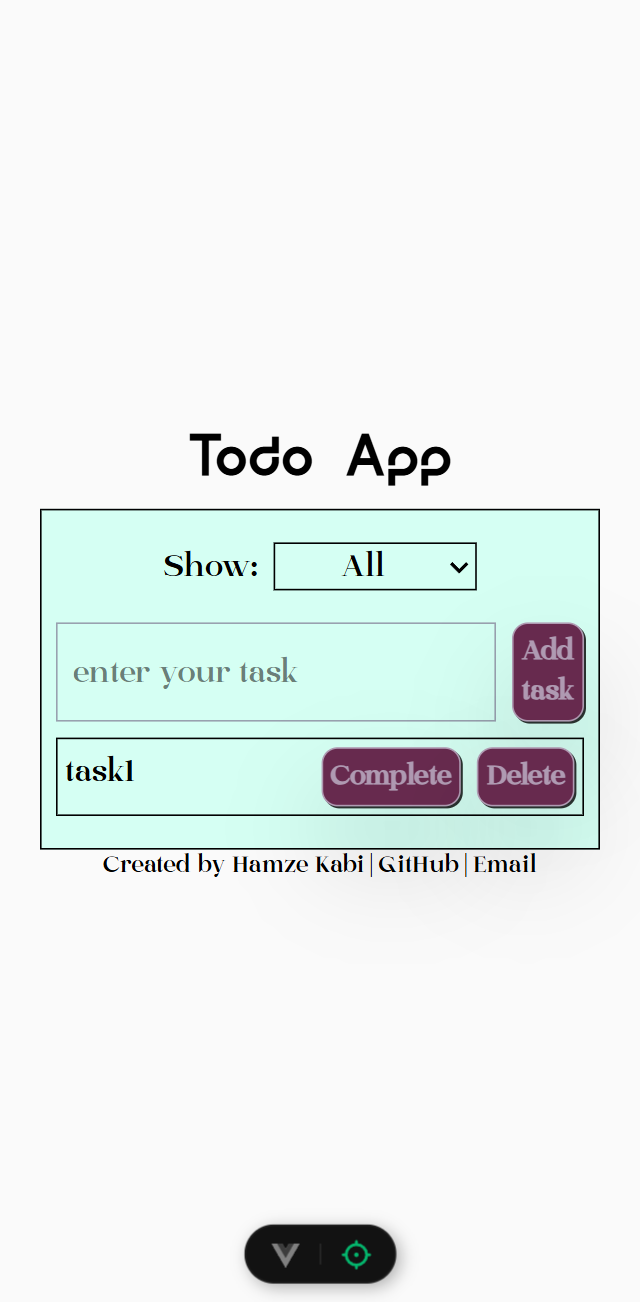
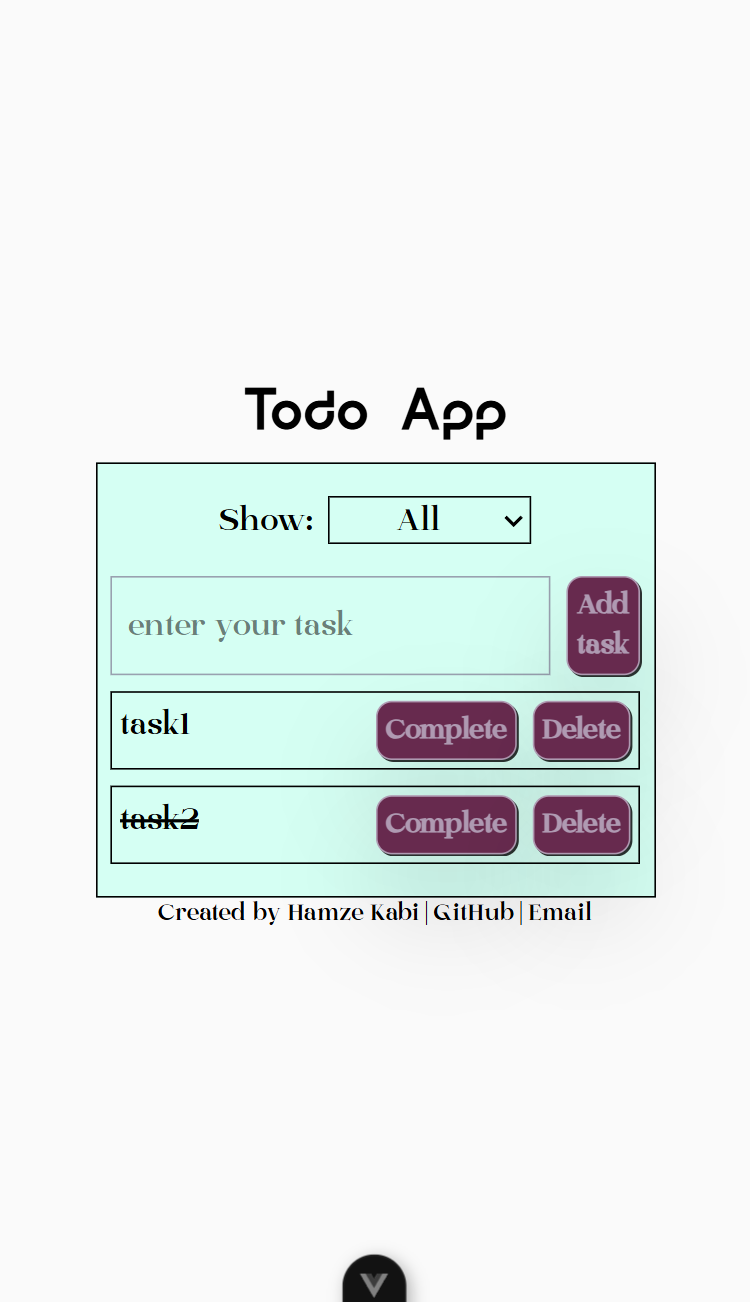
update readme, add screenshot

Changed region(s): [[0.0625, 0.2765, 0.9375, 0.7066], [0.375, 0.9217, 0.625, 1.0]]

diff --git a/README.md b/README.md
@@ -1,35 +1,36 @@
-# todo app
+# Todo App
 
-This template should help get you started developing with Vue 3 in Vite.
+A simple todo app, created using vue and tailwind
 
-## Recommended IDE Setup
+## Table of contents
 
-[VSCode](https://code.visualstudio.com/) + [Volar](https://marketplace.visualstudio.com/items?itemName=Vue.volar) (and disable Vetur).
+- [Overview](#overview)
+  - [Screenshot](#screenshot)
+  - [Links](#links)
+- [My process](#my-process)
+  - [Built with](#built-with)
+- [Author](#author)
 
-## Customize configuration
+## Overview
 
-See [Vite Configuration Reference](https://vite.dev/config/).
+### Screenshot
 
-## Project Setup
+![Screenshot](screenshot.png)
 
-```sh
-npm install
-```
+### Links
 
-### Compile and Hot-Reload for Development
+- Solution URL: [https://github.com/hamze-kabi/todo-app-vue---tailwind](https://github.com/hamze-kabi/todo-app-vue---tailwind)
+- Live Site URL: [https://hamze-kabi-todoapp.netlify.app/](https://hamze-kabi-todoapp.netlify.app/)
 
-```sh
-npm run dev
-```
+## My process
 
-### Compile and Minify for Production
+### Built with
 
-```sh
-npm run build
-```
+- Vue
+- Tailwind
+- Pinia
+- Mobile-first workflow
 
-### Lint with [ESLint](https://eslint.org/)
+## Author
 
-```sh
-npm run lint
-```
+- Github - [https://github.com/hamze-kabi](https://github.com/hamze-kabi)
